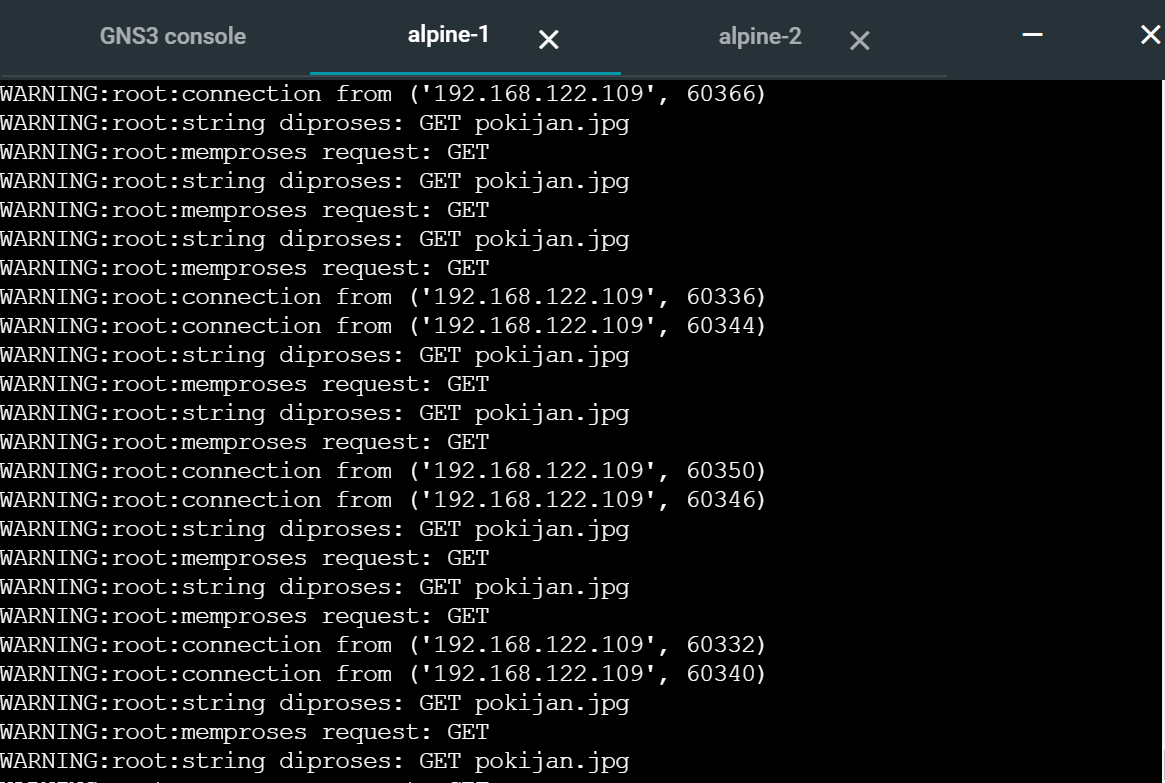
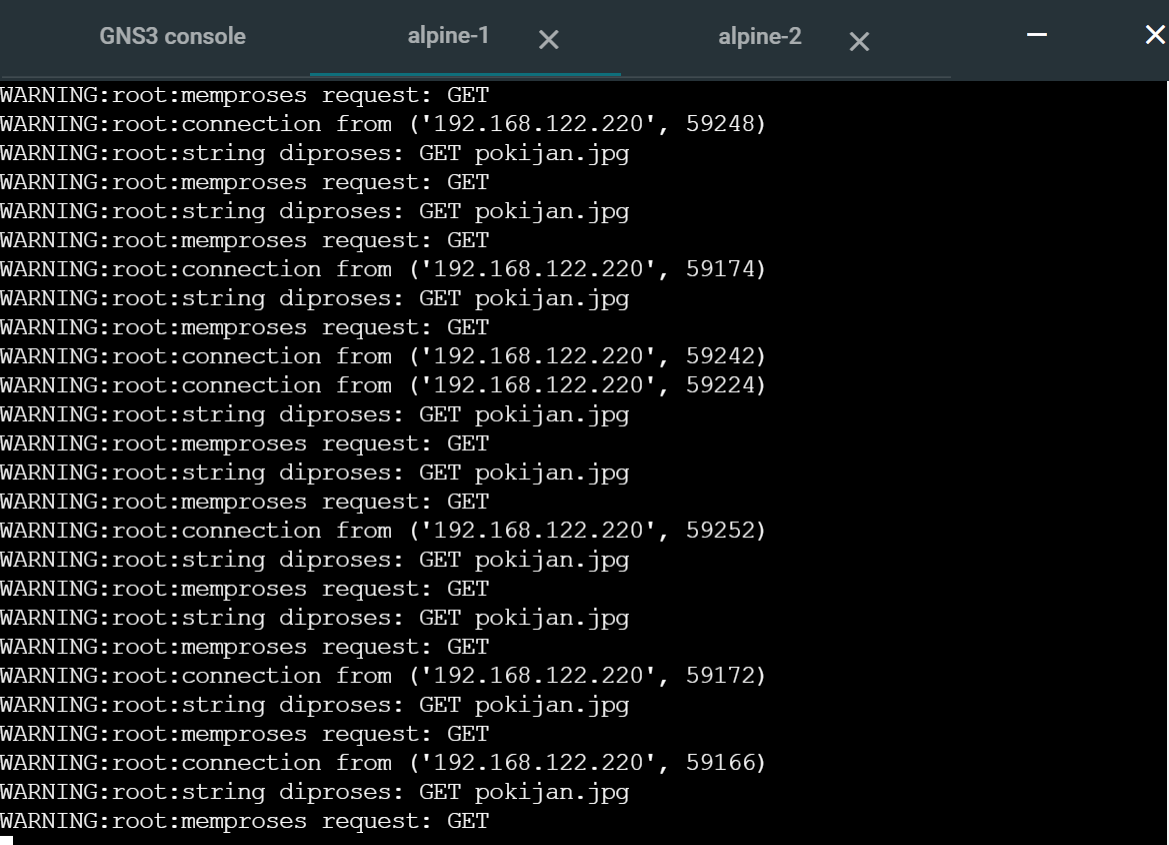
Fifth Commit - Revisi IP Address

diff --git a/progjar4a/Jawab/file_server.py b/progjar4a/Jawab/file_server.py
@@ -27,7 +27,7 @@ class ProcessTheClient(threading.Thread):
         self.connection.close()
 
 class Server(threading.Thread):
-    def __init__(self,ipaddress='192.168.122.72',port=5005):
+    def __init__(self,ipaddress='192.168.122.248',port=5005):
         self.ipinfo=(ipaddress,port)
         self.the_clients = []
         self.my_socket = socket.socket(socket.AF_INET, socket.SOCK_STREAM)
@@ -46,11 +46,9 @@ class Server(threading.Thread):
             clt.start()
             self.the_clients.append(clt)
 
-
 def main():
-    svr = Server(ipaddress='192.168.122.72',port=5005)
+    svr = Server(ipaddress='192.168.122.248',port=5005)
     svr.start()
-
 
 if __name__ == "__main__":
     main()

diff --git a/progjar4a/Jawab/file_client_cli.py b/progjar4a/Jawab/file_client_cli.py
@@ -3,7 +3,7 @@ import json
 import base64
 import logging
 
-server_address=('192.168.122.72',5005)
+server_address=('192.168.122.248',5005)
 
 def send_command(command_str=""):
     global server_address
@@ -63,5 +63,5 @@ def remote_get(filename=""):
         return False
 
 if __name__=='__main__':
-    server_address=('192.168.122.72',5005)
+    server_address=('192.168.122.248',5005)
     remote_list()

diff --git a/progjar4a/Jawab/file_protocol.py b/progjar4a/Jawab/file_protocol.py
@@ -34,7 +34,6 @@ class FileProtocol:
         except Exception:
             return json.dumps(dict(status='ERROR',data='request tidak dikenali'))
 
-
 if __name__=='__main__':
     #contoh pemakaian
     fp = FileProtocol()
